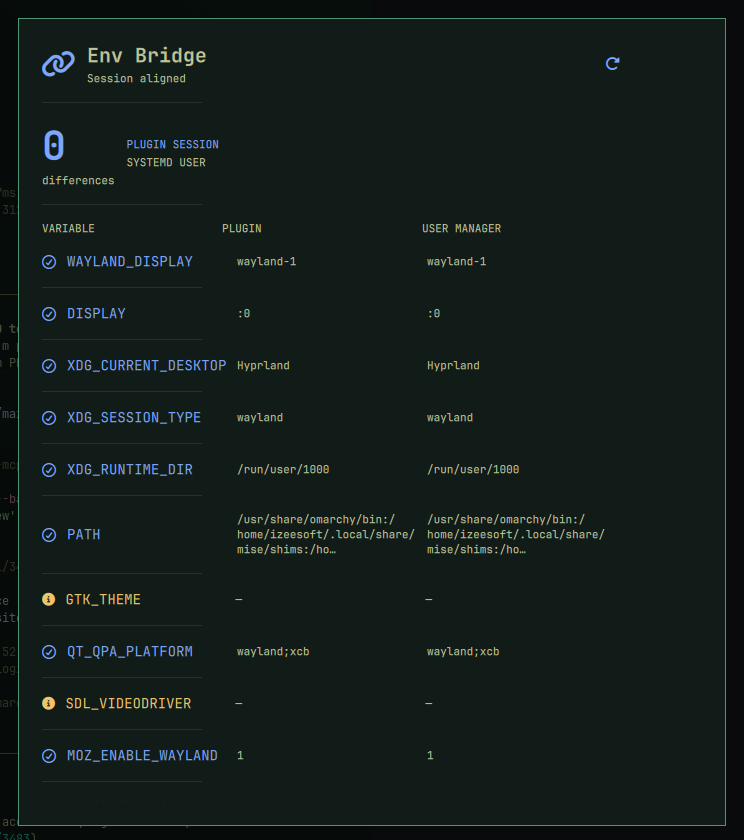
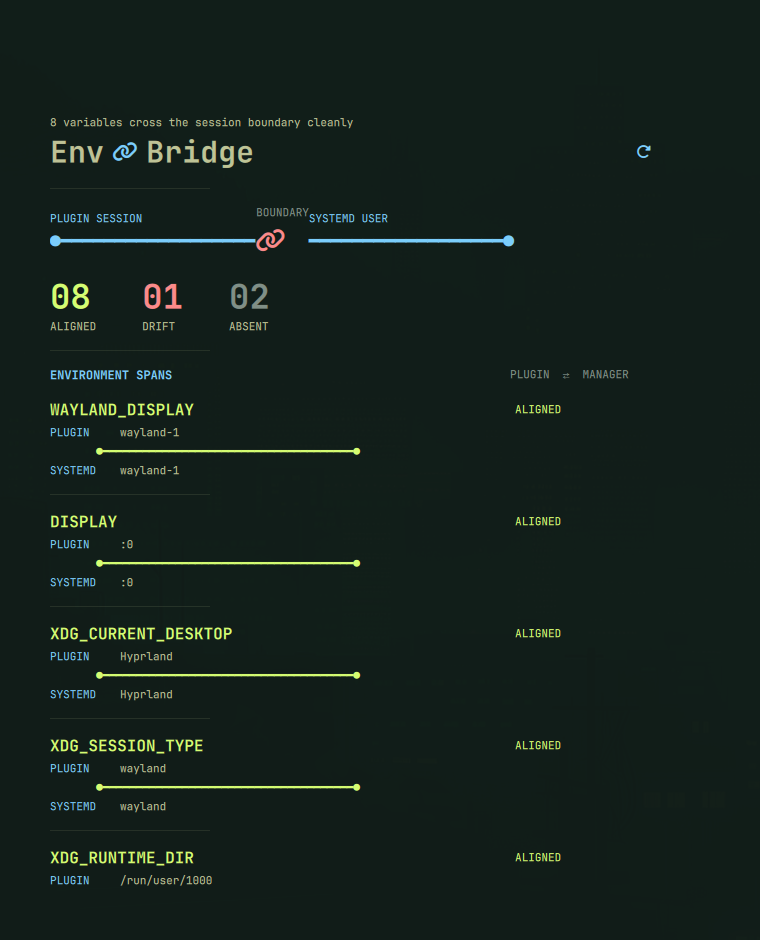
Redesign Env Bridge as a session span

diff --git a/main.rb b/main.rb
@@ -357,61 +357,94 @@ OmarchyUI.plugin do
   end
 
   bar_widget do
-    row spacing: 7 do
-      icon :link, color: "#7da7ff"
-      text { state.snapshot.fetch("summary") }
+    row spacing: 6 do
+      icon :link, size: 14, color: "#7dcfff"
+      text "ENV", style: :caption, color: "#7dcfff"
+      text(style: :caption) { state.snapshot.fetch("summary") }
     end
     on_click { open_panel :env_bridge }
   end
 
   panel :env_bridge do
-    scroll width: 660, height: 760 do
+    scroll width: 660, height: 780 do
       dynamic id: :scene, spacing: 16 do
         entries = state.snapshot.fetch("items")
-        history = state.snapshot.fetch("history")
+        drift = entries.count { |entry| entry.fetch("status", "") == "drift" }
+        aligned = entries.count { |entry| entry.fetch("status", "") == "aligned" }
+        absent = entries.count { |entry| entry.fetch("status", "") == "absent" }
 
-        row spacing: 12 do
-          icon :link, size: 30, color: "#7da7ff"
-          column spacing: 2 do
-            text "Env Bridge", style: :heading, width: 500
-            text state.snapshot.fetch("summary"), style: :caption, width: 500
-          end
-          action_button :refresh, tooltip: "Refresh", foreground: "#7da7ff" do
-            async(&refresh)
+        column spacing: 2 do
+          text "#{aligned} variables cross the session boundary cleanly", style: :caption, width: 610
+          row spacing: 9 do
+            text "Env", size: 30, bold: true
+            icon :link, size: 22, color: "#7dcfff"
+            text "Bridge", size: 30, bold: true, width: 475
+            action_button :refresh, tooltip: "Retest environment", foreground: "#7dcfff" do
+              async(&refresh)
+            end
           end
         end
 
         separator
-        drift = entries.count { |entry| entry.fetch("status", "") == "drift" }
-            row spacing: 12 do
-              column spacing: 1 do
-                text drift.to_s, size: 40, bold: true, color: drift.zero? ? "#7da7ff" : "#ff6b78"
-                text "differences", style: :caption
-              end
-              column spacing: 3 do
-                text "PLUGIN SESSION", style: :caption, color: "#7da7ff", width: 210
-                text "SYSTEMD USER", style: :caption, width: 210
-              end
-            end
-            separator
+        row spacing: 0 do
+          column spacing: 3 do
+            text "PLUGIN SESSION", style: :caption, color: "#7dcfff"
+            text "●━━━━━━━━━━━━━━━━━━", size: 18, color: "#7dcfff"
+          end
+          column spacing: 3 do
+            text "BOUNDARY", style: :caption, color: "#829088"
+            icon :link, size: 26, color: drift.zero? ? "#d8ff73" : "#ff8b8b"
+          end
+          column spacing: 3 do
+            text "SYSTEMD USER", style: :caption, color: "#7dcfff"
+            text "━━━━━━━━━━━━━━━━━━●", size: 18, color: "#7dcfff"
+          end
+        end
+        row spacing: 46 do
+          column spacing: 0 do
+            text aligned.to_s.rjust(2, "0"), size: 34, bold: true, color: "#d8ff73"
+            text "ALIGNED", style: :caption
+          end
+          column spacing: 0 do
+            text drift.to_s.rjust(2, "0"), size: 34, bold: true,
+                 color: drift.zero? ? "#829088" : "#ff8b8b"
+            text "DRIFT", style: :caption
+          end
+          column spacing: 0 do
+            text absent.to_s.rjust(2, "0"), size: 34, bold: true, color: "#829088"
+            text "ABSENT", style: :caption
+          end
+        end
+        separator
+        row spacing: 10 do
+          text "ENVIRONMENT SPANS", size: 12, bold: true, color: "#7dcfff", width: 450
+          text "PLUGIN  ⇄  MANAGER", style: :caption, color: "#829088"
+        end
+
+        entries.each_with_index do |entry, index|
+          plugin_value = entry.fetch("detail", "").sub("plugin: ", "")
+          manager_value = entry.fetch("meta", "").sub("user manager: ", "")
+          plugin_value = plugin_value.byteslice(0, 76).to_s + "…" if plugin_value.bytesize > 79
+          manager_value = manager_value.byteslice(0, 76).to_s + "…" if manager_value.bytesize > 79
+          status = entry.fetch("status", "")
+          bridge_color = status == "aligned" ? "#d8ff73" : (status == "drift" ? "#ff8b8b" : "#829088")
+          column spacing: 4 do
             row spacing: 10 do
-              text "VARIABLE", style: :caption, width: 170
-              text "PLUGIN", style: :caption, width: 190
-              text "USER MANAGER", style: :caption, width: 190
+              text entry.fetch("title"), width: 455, size: 16, bold: true, color: bridge_color
+              text status.upcase, style: :caption, color: bridge_color, width: 105
             end
-            entries.each_with_index do |entry, index|
-              plugin_value = entry.fetch("detail", "").sub("plugin: ", "")
-              manager_value = entry.fetch("meta", "").sub("user manager: ", "")
-              plugin_value = plugin_value.byteslice(0, 65).to_s + "…" if plugin_value.bytesize > 68
-              manager_value = manager_value.byteslice(0, 65).to_s + "…" if manager_value.bytesize > 68
-              row spacing: 10 do
-                icon status_icon.call(entry.fetch("status", "")), size: 14, color: status_color.call(entry.fetch("status", ""))
-                text entry.fetch("title"), width: 160, color: status_color.call(entry.fetch("status", "")), wrap: true
-                text plugin_value, style: :caption, width: 180, wrap: true
-                text manager_value, style: :caption, width: 180, wrap: true
-              end
-              separator unless index == entries.length - 1
+            row spacing: 8 do
+              text "PLUGIN", style: :caption, color: "#7dcfff", width: 62
+              text plugin_value, style: :caption, width: 490, wrap: true
             end
+            text "       ●━━━━━━━━━━━━━━━━━━━━━━━━━━━━━━━━━━━━━━●", style: :caption, color: bridge_color
+            row spacing: 8 do
+              text "SYSTEMD", style: :caption, color: "#7dcfff", width: 62
+              text manager_value, style: :caption, width: 490, wrap: true
+            end
+          end
+          separator unless index == entries.length - 1
+        end
       end
     end
   end
